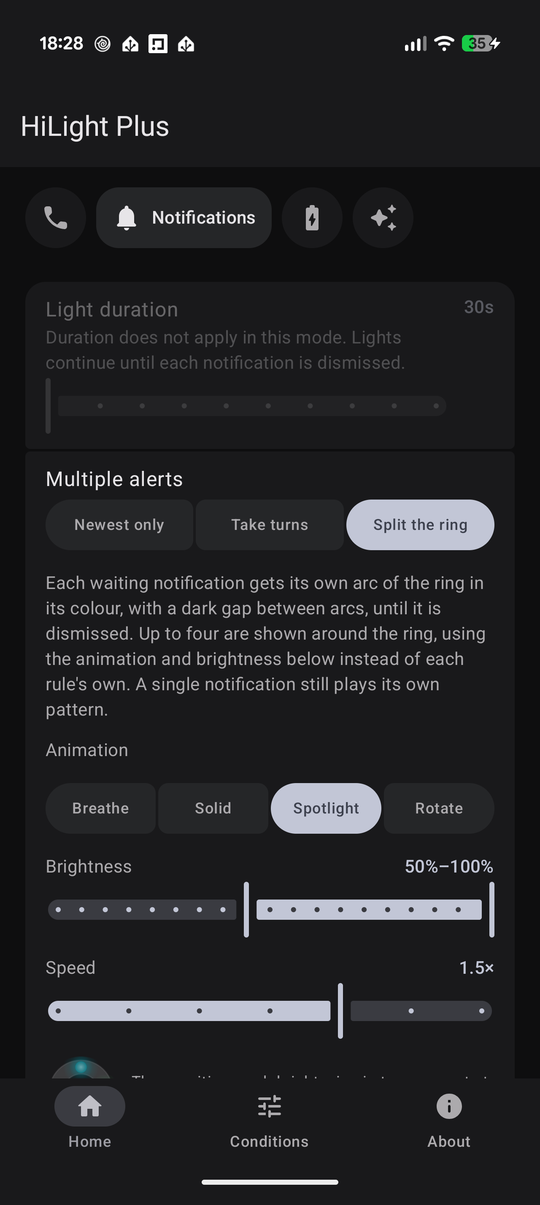
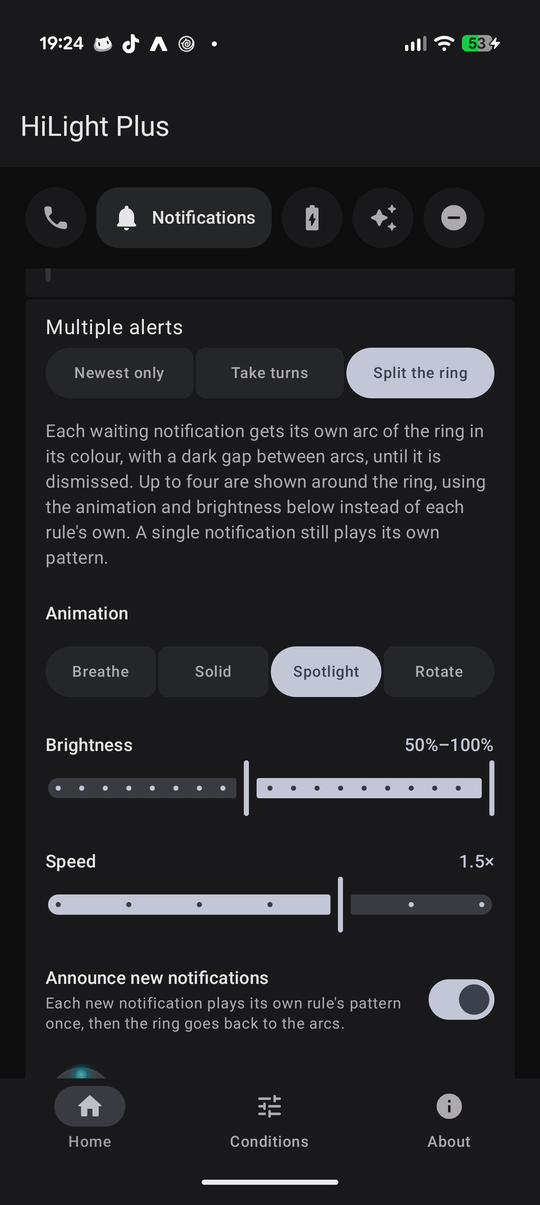
feat(split): announce new notifications before the arcs
With the ring split, a new arrival only showed up as one more arc. A new
"Announce new notifications" switch under Split the ring (off by
default) has each newly posted notification first play one loop of its
own rule's pattern, colour, brightness and speed, then the arcs come
back, their animation starting afresh.

- A loop is the same length as that pattern's turn in Take turns.
- Only matters with two or more visible notifications; a lone one
  already plays its own pattern. One hidden by its conditions doesn't
  announce itself, and dismissing it mid-announcement goes straight
  back to the arcs. Calls, Gemini and the DND flash still go over it.
- The announcement is timed on the hardware effect, and dropped on
  every tick once it's played out, so it can't keep the render loop
  awake or leave the ring on the wrong look.
- New AIDL method appended; daemon version 22.
- README and XDA post updated, and the split ring screenshot retaken
  (XDA image cache bumped).

diff --git a/app/src/main/java/com/mwilky/hilight/plus/core/LightEngine.kt b/app/src/main/java/com/mwilky/hilight/plus/core/LightEngine.kt
@@ -219,6 +219,11 @@ class LightEngine {
     // (Spotlight on the newest arc, Rotate with the newest at the top).
     private var splitKeys: List<String>? = null
     private var splitStartedAtMs = 0L
+    // Announcing a new arrival: while the split ring is up, a newly posted notification plays one
+    // loop of its own pattern before the arcs come back. Which one, and when it was posted.
+    private var splitAnnounceNew = false
+    private data class SplitIntro(val key: String, val startedAtMs: Long)
+    private var splitIntro: SplitIntro? = null
 
     // Hardware effects: what the open session is showing, so an effect is only sent when that
     // changes, and whether the render loop is pushing frames (fallback) and so needs to tick fast.
@@ -398,6 +403,9 @@ class LightEngine {
             }
             if (notificationVisible(requiresFaceDown, dndMode, quietHoursMode, quietStartOverride, quietEndOverride)) {
                 needsSessionReset = true
+                // Only matters once there are arcs to come back to; a lone alert plays its own
+                // pattern anyway. Checked as the ring is drawn, since the others may yet go.
+                if (splitRing && splitAnnounceNew) splitIntro = SplitIntro(key, now)
             }
             DebugLog.i(TAG, "postAlert [key=$key]: pattern=$pattern, color=$color, speedMs=$speedMs (queue size=${activeAlerts.size}, requiresFaceDown=$requiresFaceDown, dndMode=$dndMode, quietHoursMode=$quietHoursMode)")
             wake()
@@ -521,6 +529,7 @@ class LightEngine {
         synchronized(lock) {
             if (splitRing == enabled) return
             splitRing = enabled
+            splitIntro = null
             DebugLog.i(TAG, "setSplitRing: $enabled")
             wake()
         }
@@ -541,6 +550,16 @@ class LightEngine {
             if (splitSpeed == speed) return
             splitSpeed = speed
             DebugLog.i(TAG, "setSplitSpeed: $speed")
+            wake()
+        }
+    }
+
+    fun setSplitAnnounceNew(enabled: Boolean) {
+        synchronized(lock) {
+            if (splitAnnounceNew == enabled) return
+            splitAnnounceNew = enabled
+            if (!enabled) splitIntro = null
+            DebugLog.i(TAG, "setSplitAnnounceNew: $enabled")
             wake()
         }
     }
@@ -668,6 +687,7 @@ class LightEngine {
     fun removeAlert(key: String) {
         synchronized(lock) {
             val removed = activeAlerts.removeAll { it.key == key }
+            if (splitIntro?.key == key) splitIntro = null
             if (removed) {
                 if (currentAlertIndex >= activeAlerts.size) {
                     currentAlertIndex = 0
@@ -693,6 +713,7 @@ class LightEngine {
             directAlertTimer.clear()
             activeAlerts.clear()
             currentAlertIndex = 0
+            splitIntro = null
             if (incomingCallAlert == null && !idleLayerActiveNow()) {
                 lights.blank()
             }
@@ -708,6 +729,7 @@ class LightEngine {
             directAlertTimer.clear()
             activeAlerts.clear()
             currentAlertIndex = 0
+            splitIntro = null
             testAlert = null
             geminiState = null
             // Also drop the battery reading, so the layer can't simply light back up on the next
@@ -767,6 +789,9 @@ class LightEngine {
         activeAlerts.forEach { if (it.expiresAtMs != Long.MAX_VALUE) due = minOf(due, it.expiresAtMs) }
         nextTurnAtMs?.let { due = minOf(due, it) }
         geminiState?.let { due = minOf(due, geminiStateSinceMs + GeminiLogParser.maxDurationMs(it)) }
+        splitIntro?.let { intro ->
+            activeAlerts.firstOrNull { it.key == intro.key }?.let { due = minOf(due, maxOf(now, intro.startedAtMs + splitIntroMs(it))) }
+        }
         // Only deadlines still ahead: one already passed would keep waking the loop every frame.
         dndFlash?.let { due = minOf(due, maxOf(now, it.startedAtMs + PatternRenderer.DND_FLASH_MS)) }
         dndIndicator?.showForMs?.let { showFor ->
@@ -906,6 +931,12 @@ class LightEngine {
             val batterySuppressesNotifications = batteryEligible && battery!!.overridesNotifications
 
             if (dndFlash?.let { now - it.startedAtMs >= PatternRenderer.DND_FLASH_MS } == true) dndFlash = null
+            // Dropped here too, not only where the split ring is drawn: with a single alert
+            // waiting that code never runs, and a stale announcement would keep the loop awake.
+            splitIntro?.let { intro ->
+                val alert = activeAlerts.firstOrNull { it.key == intro.key }
+                if (alert == null || now - intro.startedAtMs >= splitIntroMs(alert)) splitIntro = null
+            }
             val dndShow = dndLayerNow(now, nowMinutes)
 
             var currentPattern = ambientPattern
@@ -1003,6 +1034,19 @@ class LightEngine {
                 if (eligibleStart == null) {
                     reason = "off (${activeAlerts.size} queued, hidden by conditions)"
                     useIdleLayer()
+                } else if (splitAlerts.size >= 2 && splitIntroAlert(splitAlerts, now) != null) {
+                    // A new arrival announces itself with one loop of its own pattern, timed so
+                    // the hardware stops by itself; the arcs come back on the next tick after.
+                    val intro = splitIntro!!
+                    val alert = splitIntroAlert(splitAlerts, now)!!
+                    reason = "split intro ${alert.key} ${alert.pattern}"
+                    currentPattern = alert.pattern
+                    currentColor = alert.color
+                    currentBrightness = alert.brightness
+                    currentSpeed = alert.speedMs
+                    elapsedMs = now - intro.startedAtMs
+                    effectKey = listOf("splitIntro", intro, alert)
+                    effectRemainingMs = splitIntroMs(alert) - elapsedMs
                 } else if (splitAlerts.size >= 2) {
                     val keys = splitAlerts.take(PatternRenderer.MAX_SPLIT_SEGMENTS).map { it.key }
                     if (keys != splitKeys) {
@@ -1252,7 +1296,7 @@ class LightEngine {
         buildString {
             appendLine("ring=$lastRenderReason, sessionOpen=${lights.isSessionOpen}, unclosedSessions=${lights.unclosedSessionCount}, leds=${lights.ledCount}, running=$running, renderThreadAlive=${renderThread?.isAlive}, lastFrame=${now - lastTickElapsedMs}ms ago")
             appendLine("route=${if (framesDriving) "frames" else "effects"}, effectsSupported=${lights.supportsEffects}, effectsFailed=$effectsFailed, period=${lights.effectPeriodMs}ms, showing=${shownEffectKey?.let { shownEffectInfo }}")
-            appendLine("faceDown=$deviceFaceDown, dndActive=$dndActive, dndSuppress=$dndSuppressEnabled, quietHours=$quietHoursEnabled $quietHoursStartMinutes-$quietHoursEndMinutes, splitRing=$splitRing (${splitAnimation.id}, $splitLook, speed $splitSpeed)")
+            appendLine("faceDown=$deviceFaceDown, dndActive=$dndActive, dndSuppress=$dndSuppressEnabled, quietHours=$quietHoursEnabled $quietHoursStartMinutes-$quietHoursEndMinutes, splitRing=$splitRing (${splitAnimation.id}, $splitLook, speed $splitSpeed, announceNew=$splitAnnounceNew${splitIntro?.let { ", announcing ${it.key}" } ?: ""})")
             appendLine("pause=${describePause()}, rearCamera=$rearCameraActive")
             appendLine("test=${testAlert?.let { "${it.pattern} ${hex(it.color)}, ${it.expiresAtMs - now}ms left" }}")
             appendLine("gemini=${if (geminiEnabled) "on, ${geminiState?.id ?: "idle"}${geminiState?.let { ", for ${(now - geminiStateSinceMs) / 1000}s" } ?: ""}, looks=${geminiLooks.map { "${it.key.id}:${it.value.pattern}" }}" else "off"}")
@@ -1271,6 +1315,23 @@ class LightEngine {
     }
 
     private fun hex(color: Long): String = "#%08X".format(color and 0xFFFFFFFFL)
+
+    /** One loop of [alert]'s pattern, the same length as its turn when alerts take turns. */
+    private fun splitIntroMs(alert: QueuedAlert): Long = alert.speedMs.coerceAtLeast(300L)
+
+    /**
+     * The alert announcing itself before the split ring, if one is: still waiting and visible,
+     * and with its one loop not yet played out. An announcement that's over is dropped.
+     */
+    private fun splitIntroAlert(visible: List<QueuedAlert>, now: Long): QueuedAlert? {
+        val intro = splitIntro ?: return null
+        val alert = visible.firstOrNull { it.key == intro.key }
+        if (alert == null || now - intro.startedAtMs >= splitIntroMs(alert)) {
+            splitIntro = null
+            return null
+        }
+        return alert
+    }
 
     /** Queue order is post order, so the newest alert is last; the split ring shows newest at the top. */
     private fun visibleAlertsNewestFirst(nowMinutes: Int): List<QueuedAlert> =

diff --git a/app/src/main/java/com/mwilky/hilight/plus/ui/HomeNotificationsSection.kt b/app/src/main/java/com/mwilky/hilight/plus/ui/HomeNotificationsSection.kt
@@ -18,6 +18,7 @@ import androidx.compose.foundation.layout.height
 import androidx.compose.foundation.layout.padding
 import androidx.compose.foundation.layout.size
 import androidx.compose.foundation.rememberScrollState
+import androidx.compose.foundation.selection.toggleable
 import androidx.compose.foundation.shape.CircleShape
 import androidx.compose.foundation.verticalScroll
 import androidx.compose.material.icons.Icons
@@ -33,6 +34,7 @@ import androidx.compose.material3.ListItemDefaults
 import androidx.compose.material3.MaterialTheme
 import androidx.compose.material3.SegmentedListItem
 import androidx.compose.material3.Slider
+import androidx.compose.material3.Switch
 import androidx.compose.material3.Text
 import androidx.compose.runtime.Composable
 import androidx.compose.runtime.DisposableEffect
@@ -47,6 +49,7 @@ import androidx.compose.ui.Modifier
 import androidx.compose.ui.draw.alpha
 import androidx.compose.ui.draw.clip
 import androidx.compose.ui.res.stringResource
+import androidx.compose.ui.semantics.Role
 import androidx.compose.ui.text.TextStyle
 import androidx.compose.ui.unit.dp
 import com.mwilky.hilight.plus.AppNotificationRule
@@ -102,6 +105,7 @@ fun HomeNotifsPage(
     onChangeSplitAnimation: (SplitAnimation) -> Unit,
     onChangeSplitLook: (SplitLook) -> Unit,
     onChangeSplitSpeed: (Float) -> Unit,
+    onChangeSplitAnnounceNew: (Boolean) -> Unit,
     onTestSplit: (colors: LongArray, animation: SplitAnimation, look: SplitLook, speed: Float, durationMs: Long) -> Unit,
     onCancelLedTest: () -> Unit,
     renderer: PatternRenderer
@@ -351,6 +355,31 @@ fun HomeNotifsPage(
                                             enabled = state.splitAnimation != SplitAnimation.SOLID,
                                             titleStyle = headerStyle
                                         )
+                                        // Laid out like the Battery page's switch rows, inside this one.
+                                        Row(
+                                            modifier = Modifier
+                                                .fillMaxWidth()
+                                                .toggleable(
+                                                    value = state.splitAnnounceNew,
+                                                    role = Role.Switch,
+                                                    onValueChange = onChangeSplitAnnounceNew
+                                                ),
+                                            verticalAlignment = Alignment.CenterVertically,
+                                            horizontalArrangement = Arrangement.spacedBy(16.dp)
+                                        ) {
+                                            Column(
+                                                modifier = Modifier.weight(1f),
+                                                verticalArrangement = Arrangement.spacedBy(2.dp)
+                                            ) {
+                                                Text(stringResource(R.string.settings_split_announce_title), style = headerStyle)
+                                                Text(
+                                                    text = stringResource(R.string.settings_split_announce_desc),
+                                                    style = MaterialTheme.typography.bodySmall,
+                                                    color = MaterialTheme.colorScheme.onSurfaceVariant
+                                                )
+                                            }
+                                            Switch(checked = state.splitAnnounceNew, onCheckedChange = null)
+                                        }
                                         Column(verticalArrangement = Arrangement.spacedBy(12.dp)) {
                                             SplitRingExample(renderer, state.splitAnimation, state.splitLook, state.splitSpeed)
                                             SplitTestButton(

diff --git a/app/src/main/java/com/mwilky/hilight/plus/AppStore.kt b/app/src/main/java/com/mwilky/hilight/plus/AppStore.kt
@@ -112,6 +112,7 @@ class AppStore private constructor(private val appContext: Context) {
         private val KEY_SPLIT_BRIGHTEST = floatPreferencesKey("split_brightest")
         private val KEY_SPLIT_STEADY = floatPreferencesKey("split_steady")
         private val KEY_SPLIT_SPEED = floatPreferencesKey("split_speed")
+        private val KEY_SPLIT_ANNOUNCE_NEW = booleanPreferencesKey("split_announce_new")
         private val KEY_DEFAULT_NOTIF_ENABLED = booleanPreferencesKey("default_notif_enabled")
         private val KEY_DEFAULT_NOTIF_COLOR = longPreferencesKey("default_notif_color")
         private val KEY_DEFAULT_NOTIF_PATTERN = stringPreferencesKey("default_notif_pattern")
@@ -206,6 +207,9 @@ class AppStore private constructor(private val appContext: Context) {
 
     val splitSpeed: Flow<Float> = appContext.dataStore.data
         .map { clampSpeed(it[KEY_SPLIT_SPEED] ?: DEFAULT_SPEED) }
+
+    val splitAnnounceNew: Flow<Boolean> = appContext.dataStore.data
+        .map { it[KEY_SPLIT_ANNOUNCE_NEW] ?: false }
 
     val battery: Flow<BatterySettings> = appContext.dataStore.data
         .map { BatterySettings.fromJson(it[KEY_BATTERY_JSON]) }
@@ -370,6 +374,10 @@ class AppStore private constructor(private val appContext: Context) {
 
     suspend fun setSplitSpeed(speed: Float) {
         appContext.dataStore.edit { it[KEY_SPLIT_SPEED] = clampSpeed(speed) }
+    }
+
+    suspend fun setSplitAnnounceNew(enabled: Boolean) {
+        appContext.dataStore.edit { it[KEY_SPLIT_ANNOUNCE_NEW] = enabled }
     }
 
     private fun readSplitLook(prefs: Preferences): SplitLook {
@@ -716,6 +724,7 @@ class AppStore private constructor(private val appContext: Context) {
             splitAnimation = SplitAnimation.fromId(prefs[KEY_SPLIT_ANIMATION]),
             splitLook = readSplitLook(prefs),
             splitSpeed = clampSpeed(prefs[KEY_SPLIT_SPEED] ?: d.splitSpeed),
+            splitAnnounceNew = prefs[KEY_SPLIT_ANNOUNCE_NEW] ?: d.splitAnnounceNew,
             isDefaultNotifEnabled = prefs[KEY_DEFAULT_NOTIF_ENABLED] ?: d.isDefaultNotifEnabled,
             defaultNotifColor = prefs[KEY_DEFAULT_NOTIF_COLOR] ?: d.defaultNotifColor,
             defaultNotifPattern = enumOr(prefs[KEY_DEFAULT_NOTIF_PATTERN], d.defaultNotifPattern),
@@ -821,6 +830,8 @@ data class SettingsSnapshot(
     val splitAnimation: SplitAnimation,
     val splitLook: SplitLook,
     val splitSpeed: Float,
+    // Off by default, so the split ring keeps going straight to its arcs until opted in.
+    val splitAnnounceNew: Boolean = false,
     val isDefaultNotifEnabled: Boolean,
     val defaultNotifColor: Long,
     val defaultNotifPattern: PatternMode,

diff --git a/app/src/main/java/com/mwilky/hilight/plus/ui/HomeScreen.kt b/app/src/main/java/com/mwilky/hilight/plus/ui/HomeScreen.kt
@@ -216,6 +216,7 @@ fun HomeScreen(
         onChangeSplitAnimation = viewModel::setSplitAnimation,
         onChangeSplitLook = viewModel::setSplitLook,
         onChangeSplitSpeed = viewModel::setSplitSpeed,
+        onChangeSplitAnnounceNew = viewModel::setSplitAnnounceNew,
         onTestSplit = controller::testSplit,
         onCancelLedTest = controller::cancelTestPattern,
         onToggleFavouriteNotif = viewModel::setFavouriteNotifEnabled,
@@ -703,6 +704,7 @@ fun HomeContent(
     onChangeSplitAnimation: (SplitAnimation) -> Unit = {},
     onChangeSplitLook: (SplitLook) -> Unit = {},
     onChangeSplitSpeed: (Float) -> Unit = {},
+    onChangeSplitAnnounceNew: (Boolean) -> Unit = {},
     onTestSplit: (colors: LongArray, animation: SplitAnimation, look: SplitLook, speed: Float, durationMs: Long) -> Unit = { _, _, _, _, _ -> },
     onCancelLedTest: () -> Unit = {},
     onToggleFavouriteNotif: (Boolean) -> Unit,
@@ -848,6 +850,7 @@ fun HomeContent(
                         onChangeSplitAnimation = onChangeSplitAnimation,
                         onChangeSplitLook = onChangeSplitLook,
                         onChangeSplitSpeed = onChangeSplitSpeed,
+                        onChangeSplitAnnounceNew = onChangeSplitAnnounceNew,
                         onTestSplit = onTestSplit,
                         onCancelLedTest = onCancelLedTest,
                         renderer = renderer

diff --git a/app/src/main/java/com/mwilky/hilight/plus/LightController.kt b/app/src/main/java/com/mwilky/hilight/plus/LightController.kt
@@ -184,6 +184,11 @@ class LightController private constructor(private val app: Application) {
             }
         }
         scope.launch {
+            store.splitAnnounceNew.collect { enabled ->
+                daemon.setSplitAnnounceNew(enabled)
+            }
+        }
+        scope.launch {
             combine(
                 store.quietHoursEnabled,
                 store.quietHoursStartMinutes,
@@ -443,6 +448,7 @@ class LightController private constructor(private val app: Application) {
         daemon.setSplitAnimation(store.splitAnimation.first())
         daemon.setSplitLook(store.splitLook.first())
         daemon.setSplitSpeed(store.splitSpeed.first())
+        daemon.setSplitAnnounceNew(store.splitAnnounceNew.first())
         daemon.setQuietHours(
             store.quietHoursEnabled.first(),
             store.quietHoursStartMinutes.first(),

diff --git a/app/src/main/java/com/mwilky/hilight/plus/DaemonBridge.kt b/app/src/main/java/com/mwilky/hilight/plus/DaemonBridge.kt
@@ -138,7 +138,7 @@ class DaemonBridge private constructor(private val app: Application) {
         .daemon(false)
         .processNameSuffix(HiLightDaemonService.PROCESS_SUFFIX)
         .debuggable(BuildConfig.DEBUG)
-        .version(21)
+        .version(22)
 
     // Receives the daemon's log lines so they land in the same shareable log as the app's.
     private val logSink = object : ILogSink.Stub() {
@@ -1001,6 +1001,10 @@ class DaemonBridge private constructor(private val app: Application) {
 
     fun setSplitSpeed(speed: Float) {
         runRemote("setSplitSpeed") { it.setSplitSpeed(speed) }
+    }
+
+    fun setSplitAnnounceNew(enabled: Boolean) {
+        runRemote("setSplitAnnounceNew") { it.setSplitAnnounceNew(enabled) }
     }
 
     fun testSplit(colors: LongArray, animation: SplitAnimation, look: SplitLook, speed: Float, durationMs: Long) {

diff --git a/app/src/main/java/com/mwilky/hilight/plus/ui/HomeViewModel.kt b/app/src/main/java/com/mwilky/hilight/plus/ui/HomeViewModel.kt
@@ -49,6 +49,7 @@ class HomeViewModel(application: Application) : AndroidViewModel(application) {
     fun setSplitAnimation(animation: SplitAnimation) = launch { store.setSplitAnimation(animation) }
     fun setSplitLook(look: SplitLook) = launch { store.setSplitLook(look) }
     fun setSplitSpeed(speed: Float) = launch { store.setSplitSpeed(speed) }
+    fun setSplitAnnounceNew(enabled: Boolean) = launch { store.setSplitAnnounceNew(enabled) }
     fun setDefaultNotifEnabled(enabled: Boolean) = launch { store.setDefaultNotifEnabled(enabled) }
     fun setFavouriteNotifEnabled(enabled: Boolean) = launch { store.setFavouriteNotifEnabled(enabled) }
     fun setBattery(settings: BatterySettings) = launch { store.setBattery(settings) }

diff --git a/app/src/main/java/com/mwilky/hilight/plus/core/HiLightDaemonService.kt b/app/src/main/java/com/mwilky/hilight/plus/core/HiLightDaemonService.kt
@@ -205,6 +205,10 @@ class HiLightDaemonService(private val appUid: Int) : IHiLightService.Stub() {
         engine.setSplitSpeed(clampSpeed(speed))
     }
 
+    override fun setSplitAnnounceNew(enabled: Boolean) {
+        engine.setSplitAnnounceNew(enabled)
+    }
+
     override fun testSplitAtSpeed(
         colors: LongArray?,
         animation: String?,

diff --git a/README.md b/README.md
@@ -32,7 +32,7 @@ Pixel's built-in HiLight lights the rear ring for two things: calls from favouri
 - Three ways to handle several notifications at once:
   - *Newest only* lights the latest for a chosen duration.
   - *Take turns* plays each waiting notification's pattern in turn until it is dismissed.
-  - *Split the ring* gives each waiting notification its own arc in its colour, up to four, newest at the top. The arcs can breathe, stay solid, brighten in turn (*Spotlight*) or circle the ring (*Rotate*). Breathe and Spotlight move between a dimmest and brightest level you set; Solid and Rotate hold one steady level. A note appears when a setting may let neighbouring colours blend or a dim arc look like spill from the next. Its animation speed can be set from half to twice its own pace. It has its own Test on LEDs button.
+  - *Split the ring* gives each waiting notification its own arc in its colour, up to four, newest at the top. The arcs can breathe, stay solid, brighten in turn (*Spotlight*) or circle the ring (*Rotate*). Breathe and Spotlight move between a dimmest and brightest level you set; Solid and Rotate hold one steady level. A note appears when a setting may let neighbouring colours blend or a dim arc look like spill from the next. Its animation speed can be set from half to twice its own pace. It has its own Test on LEDs button. Optionally, each new notification first plays its own rule's pattern once before the arcs come back.
 - Lights stop when the notification is dismissed.
 
 **Battery**
